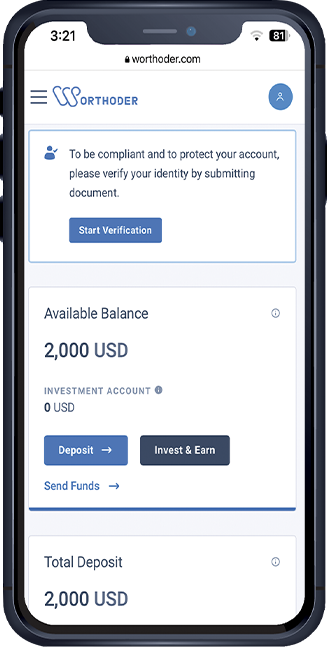
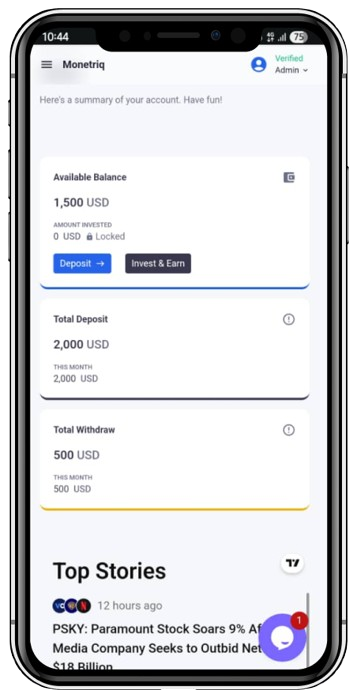
mes

diff --git a/lib/data/referralData.js b/lib/data/referralData.js
@@ -4,7 +4,7 @@ export const referralData = {
   introImage: "/images/referral-intro.png",
 
   introText:
-    "At Worthoder, we offer a powerful three-level affiliate program designed to reward you for expanding our community:",
+    "At Monetriq, we offer a powerful three-level affiliate program designed to reward you for expanding our community:",
 
   levels: [
     {
@@ -30,8 +30,8 @@ export const referralData = {
   heading: "Become an Affiliate and Maximize Your Earnings",
 
   descriptionParagraphs: [
-    "Partner with Worthoder and unlock unlimited earning potential. By sharing our platform with others, you can build a growing affiliate network and enjoy continuous rewards. The more your network grows, the more you earn.",
-    "Our affiliate bonuses are fully supported by the platform’s operational revenue generated from our activities in the cryptocurrency market. As a member of the Worthoder community, you benefit directly from our success.",
+    "Partner with Monetriq and unlock unlimited earning potential. By sharing our platform with others, you can build a growing affiliate network and enjoy continuous rewards. The more your network grows, the more you earn.",
+    "Our affiliate bonuses are fully supported by the platform’s operational revenue generated from our activities in the cryptocurrency market. As a member of the Monetriq community, you benefit directly from our success.",
     "Start referring today and turn your network into a source of consistent income.",
   ],
 

diff --git a/lib/data/aboutData.js b/lib/data/aboutData.js
@@ -77,12 +77,12 @@ export const terms = {
 };
 
 export const aboutSectionData = {
-  title: "Worthoder",
+  title: "Monetriq",
   subtitle:
     "Transparency, integrity, and client-centricity are the cornerstones of our business philosophy",
 
   description:
-    "Experience the power of advanced financial instruments with Worthoder and unlock the full potential of your financial journey. Partner with us today and let us help you navigate the complexities of the financial world, bringing you closer to your financial goals.",
+    "Experience the power of advanced financial instruments with Monetriq and unlock the full potential of your financial journey. Partner with us today and let us help you navigate the complexities of the financial world, bringing you closer to your financial goals.",
 
   stats: [
     {

diff --git a/components/experience-grid.js b/components/experience-grid.js
@@ -8,7 +8,7 @@ export default function ExperienceGrid() {
     <>
       <div className={styles.inner}>
         {/* Left (Video) */}
-        <div className={styles.videoSection}>
+        {/* <div className={styles.videoSection}>
           <div className={styles.videoContainer}>
             <figure className={styles.videoFigure}>
               <video
@@ -22,7 +22,7 @@ export default function ExperienceGrid() {
               ></video>
             </figure>
           </div>
-        </div>
+        </div> */}
 
         {/* Right (Info) */}
         <div className={styles.infoSection}>

diff --git a/lib/data/home.js b/lib/data/home.js
@@ -13,7 +13,7 @@ export const site = {
     subtitle:
       'Trade digital currencies and instruments at the best available rates.',
     cta: 'Create a free account',
-    heroImage: '/mnt/data/worthoder.com_index (1).png', // <- your uploaded file path
+    heroImage: '/mnt/data/worthoder.com_index (1).png', 
   },
   features: [
     { title: '$34 million', subtitle: '24hr trading volume across markets' },

diff --git a/components/hero.js b/components/hero.js
@@ -38,7 +38,7 @@ export default function HeroSection({ user }) {
         <div className={styles.leftContent}>
           <div className={styles.badge}>
             <img
-              src="https://worthoder.com/img/crypto-app/rocket_crypto_app.png"
+              src="/images/iphone-preview.png"
               alt=""
               width="20"
               height="20"

diff --git a/lib/data/securityData.js b/lib/data/securityData.js
@@ -1,5 +1,5 @@
 export const securityData = {
-  title: "Worthoder Security",
+  title: "Monetriq Security",
   description:
     "We spare no effort in implementing cutting-edge measures to protect your valuable assets. Our dedicated team works tirelessly to shield your finances from all potential risks, giving you the peace of mind you deserve.",
 
